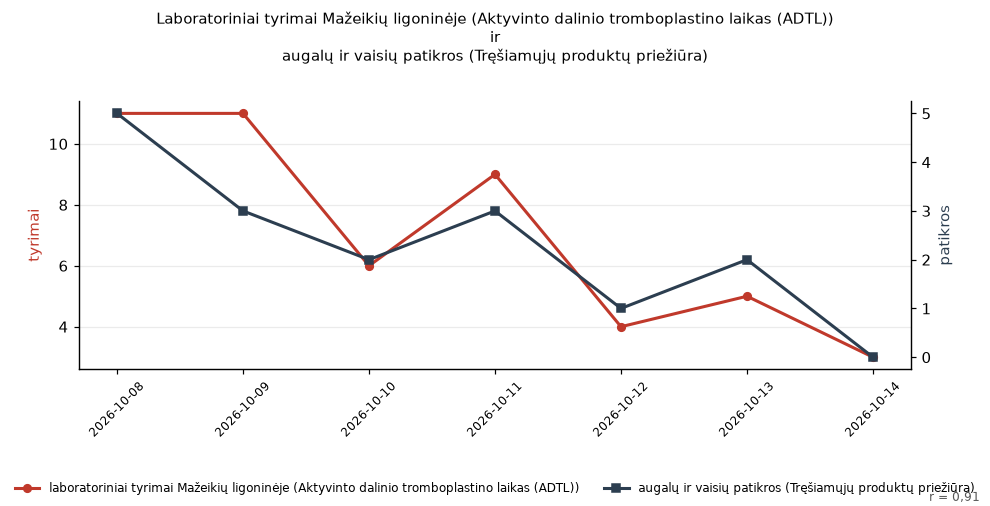
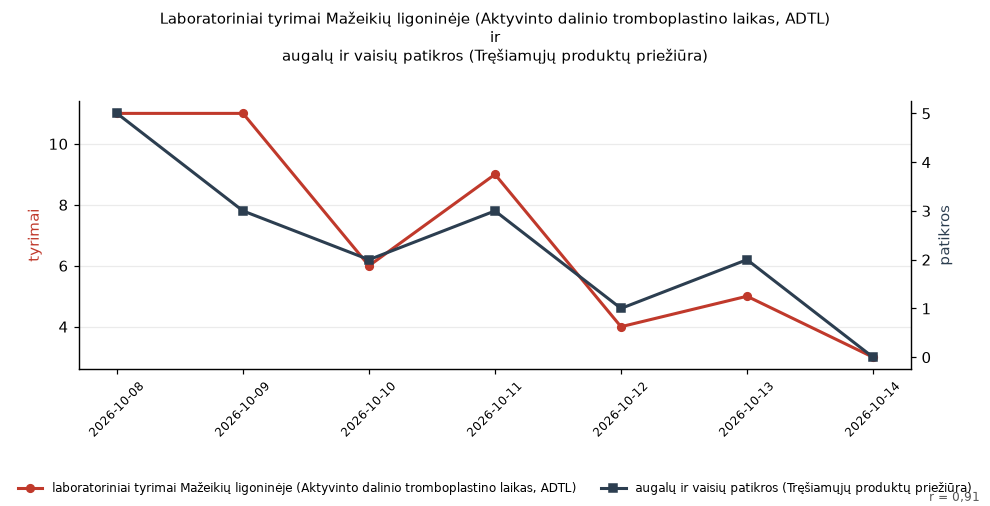
Rebuild pages

Changed region(s): [[0.0303, 0.9486, 1.0, 0.9783], [0.1515, 0.0, 0.8485, 0.0593]]

diff --git a/post/2026-10-23-48b8737f/index.html b/post/2026-10-23-48b8737f/index.html
@@ -1,10 +1,10 @@
 <!doctype html>
 <html lang="lt"><head><meta charset="utf-8">
 <meta name="viewport" content="width=device-width, initial-scale=1">
-<title>Šį mėnesį lyg tyčia sutapo: laboratoriniai tyrimai Mažeikių ligoninėje (Aktyvinto dalinio tromboplastino laikas (ADTL)) ir augalų ir vaisių patikros (Tręšiamųjų produktų priežiūra) · Lyg tyčia</title>
+<title>Šį mėnesį lyg tyčia sutapo: laboratoriniai tyrimai Mažeikių ligoninėje (Aktyvinto dalinio tromboplastino laikas, ADTL) ir augalų ir vaisių patikros (Tręšiamųjų produktų priežiūra) · Lyg tyčia</title>
 <meta property="og:type" content="article">
 <meta property="og:site_name" content="Lyg tyčia">
-<meta property="og:title" content="Šį mėnesį lyg tyčia sutapo: laboratoriniai tyrimai Mažeikių ligoninėje (Aktyvinto dalinio tromboplastino laikas (ADTL)) ir augalų ir vaisių patikros (Tręšiamųjų produktų priežiūra)">
+<meta property="og:title" content="Šį mėnesį lyg tyčia sutapo: laboratoriniai tyrimai Mažeikių ligoninėje (Aktyvinto dalinio tromboplastino laikas, ADTL) ir augalų ir vaisių patikros (Tręšiamųjų produktų priežiūra)">
 <meta property="og:description" content="Laboratoriniai tyrimai Mažeikių ligoninėje (Aktyvinto dalinio tromboplastino laikas (ADTL)) ir augalų ir vaisių patikros (Tręšiamųjų produktų priežiūra) kyla ir krenta kartu: r = 0,91 per 7 d. (2026-10-08 – 2026-10-14).">
 <meta property="og:url" content="https://1gnas3000.github.io/lygtycia/post/2026-10-23-48b8737f/">
 <meta property="og:image" content="https://1gnas3000.github.io/lygtycia/post/2026-10-23-48b8737f/chart.png">
@@ -26,18 +26,18 @@
 <article><p class="meta">2026-10-23
  · panašios kreivės · dienos duomenys
  · r = 0,91</p>
-<h2>Šį mėnesį lyg tyčia sutapo: laboratoriniai tyrimai Mažeikių ligoninėje (Aktyvinto dalinio tromboplastino laikas (ADTL)) ir augalų ir vaisių patikros (Tręšiamųjų produktų priežiūra)</h2>
+<h2>Šį mėnesį lyg tyčia sutapo: laboratoriniai tyrimai Mažeikių ligoninėje (Aktyvinto dalinio tromboplastino laikas, ADTL) ir augalų ir vaisių patikros (Tręšiamųjų produktų priežiūra)</h2>
 
 <p><a href="../../post/2026-10-23-48b8737f/"><img src="../../post/2026-10-23-48b8737f/chart.png"
  alt="grafikas" loading="lazy"></a></p>
 <p class="sources">Duomenų šaltiniai:
  <a href="https://get.data.gov.lt/datasets/gov/lab_tyrimai/lab_tyrimai/RegionineMazeikiuLigonine" rel="noopener">Laboratoriniai tyrimai (Mažeikių ligoninė)</a> · <a href="https://get.data.gov.lt/datasets/gov/vat/fitosanitarijos_kontrole/Tikrinimas" rel="noopener">Fitosanitarijos ir prekybos standartų patikros (VAT)</a></p>
 
-<p class="text">Laboratoriniai tyrimai Mažeikių ligoninėje (Aktyvinto dalinio tromboplastino laikas (ADTL)) ir augalų ir vaisių patikros (Tręšiamųjų produktų priežiūra) kyla ir krenta kartu: r = 0,91 per 7 d. (2026-10-08 – 2026-10-14).</p><p class="text">Duomenys: „laboratoriniai tyrimai Mažeikių ligoninėje (Aktyvinto dalinio tromboplastino laikas (ADTL))“ (tyrimai) ir „augalų ir vaisių patikros (Tręšiamųjų produktų priežiūra)“ (patikros).</p><p class="text">Tyler Vigen&#39;o „Spurious Correlations“ dvasia: iš tūkstančių atsitiktinių Lietuvos atvirų duomenų porų šios dvi nupiešė tą pačią kreivę.</p>
+<p class="text">Laboratoriniai tyrimai Mažeikių ligoninėje (Aktyvinto dalinio tromboplastino laikas (ADTL)) ir augalų ir vaisių patikros (Tręšiamųjų produktų priežiūra) kyla ir krenta kartu: r = 0,91 per 7 d. (2026-10-08 – 2026-10-14).</p><p class="text">Duomenys: „laboratoriniai tyrimai Mažeikių ligoninėje (Aktyvinto dalinio tromboplastino laikas, ADTL)“ (tyrimai) ir „augalų ir vaisių patikros (Tręšiamųjų produktų priežiūra)“ (patikros).</p><p class="text">Tyler Vigen&#39;o „Spurious Correlations“ dvasia: iš tūkstančių atsitiktinių Lietuvos atvirų duomenų porų šios dvi nupiešė tą pačią kreivę.</p>
 <p class="share">Dalintis:
  <a href="https://www.facebook.com/sharer/sharer.php?u=https%3A//1gnas3000.github.io/lygtycia/post/2026-10-23-48b8737f/"
  rel="noopener">Facebook</a> ·
- <a href="https://mastodonshare.com/?text=%C5%A0%C4%AF%20m%C4%97nes%C4%AF%20lyg%20ty%C4%8Dia%20sutapo%3A%20laboratoriniai%20tyrimai%20Ma%C5%BEeiki%C5%B3%20ligonin%C4%97je%20%28Aktyvinto%20dalinio%20tromboplastino%20laikas%20%28ADTL%29%29%20ir%20augal%C5%B3%20ir%20vaisi%C5%B3%20patikros%20%28Tr%C4%99%C5%A1iam%C5%B3j%C5%B3%20produkt%C5%B3%20prie%C5%BEi%C5%ABra%29&url=https%3A//1gnas3000.github.io/lygtycia/post/2026-10-23-48b8737f/"
+ <a href="https://mastodonshare.com/?text=%C5%A0%C4%AF%20m%C4%97nes%C4%AF%20lyg%20ty%C4%8Dia%20sutapo%3A%20laboratoriniai%20tyrimai%20Ma%C5%BEeiki%C5%B3%20ligonin%C4%97je%20%28Aktyvinto%20dalinio%20tromboplastino%20laikas%2C%20ADTL%29%20ir%20augal%C5%B3%20ir%20vaisi%C5%B3%20patikros%20%28Tr%C4%99%C5%A1iam%C5%B3j%C5%B3%20produkt%C5%B3%20prie%C5%BEi%C5%ABra%29&url=https%3A//1gnas3000.github.io/lygtycia/post/2026-10-23-48b8737f/"
  rel="noopener">Mastodon</a> ·
  <a href="https://www.linkedin.com/sharing/share-offsite/?url=https%3A//1gnas3000.github.io/lygtycia/post/2026-10-23-48b8737f/"
  rel="noopener">LinkedIn</a></p>

diff --git a/index.html b/index.html
@@ -50,7 +50,7 @@
  <a href="https://www.linkedin.com/sharing/share-offsite/?url=https%3A//1gnas3000.github.io/lygtycia/post/2026-10-23-0f1a16f3/"
  rel="noopener">LinkedIn</a></p></article>
 <article><p class="meta">2026-10-23</p>
-<h2><a href="./post/2026-10-23-48b8737f/">Šį mėnesį lyg tyčia sutapo: laboratoriniai tyrimai Mažeikių ligoninėje (Aktyvinto dalinio tromboplastino laikas (ADTL)) ir augalų ir vaisių patikros (Tręšiamųjų produktų priežiūra)</a></h2>
+<h2><a href="./post/2026-10-23-48b8737f/">Šį mėnesį lyg tyčia sutapo: laboratoriniai tyrimai Mažeikių ligoninėje (Aktyvinto dalinio tromboplastino laikas, ADTL) ir augalų ir vaisių patikros (Tręšiamųjų produktų priežiūra)</a></h2>
 
 <p><a href="./post/2026-10-23-48b8737f/"><img src="./post/2026-10-23-48b8737f/chart.png"
  alt="grafikas" loading="lazy"></a></p>
@@ -61,7 +61,7 @@
 <p class="share">Dalintis:
  <a href="https://www.facebook.com/sharer/sharer.php?u=https%3A//1gnas3000.github.io/lygtycia/post/2026-10-23-48b8737f/"
  rel="noopener">Facebook</a> ·
- <a href="https://mastodonshare.com/?text=%C5%A0%C4%AF%20m%C4%97nes%C4%AF%20lyg%20ty%C4%8Dia%20sutapo%3A%20laboratoriniai%20tyrimai%20Ma%C5%BEeiki%C5%B3%20ligonin%C4%97je%20%28Aktyvinto%20dalinio%20tromboplastino%20laikas%20%28ADTL%29%29%20ir%20augal%C5%B3%20ir%20vaisi%C5%B3%20patikros%20%28Tr%C4%99%C5%A1iam%C5%B3j%C5%B3%20produkt%C5%B3%20prie%C5%BEi%C5%ABra%29&url=https%3A//1gnas3000.github.io/lygtycia/post/2026-10-23-48b8737f/"
+ <a href="https://mastodonshare.com/?text=%C5%A0%C4%AF%20m%C4%97nes%C4%AF%20lyg%20ty%C4%8Dia%20sutapo%3A%20laboratoriniai%20tyrimai%20Ma%C5%BEeiki%C5%B3%20ligonin%C4%97je%20%28Aktyvinto%20dalinio%20tromboplastino%20laikas%2C%20ADTL%29%20ir%20augal%C5%B3%20ir%20vaisi%C5%B3%20patikros%20%28Tr%C4%99%C5%A1iam%C5%B3j%C5%B3%20produkt%C5%B3%20prie%C5%BEi%C5%ABra%29&url=https%3A//1gnas3000.github.io/lygtycia/post/2026-10-23-48b8737f/"
  rel="noopener">Mastodon</a> ·
  <a href="https://www.linkedin.com/sharing/share-offsite/?url=https%3A//1gnas3000.github.io/lygtycia/post/2026-10-23-48b8737f/"
  rel="noopener">LinkedIn</a></p></article>
